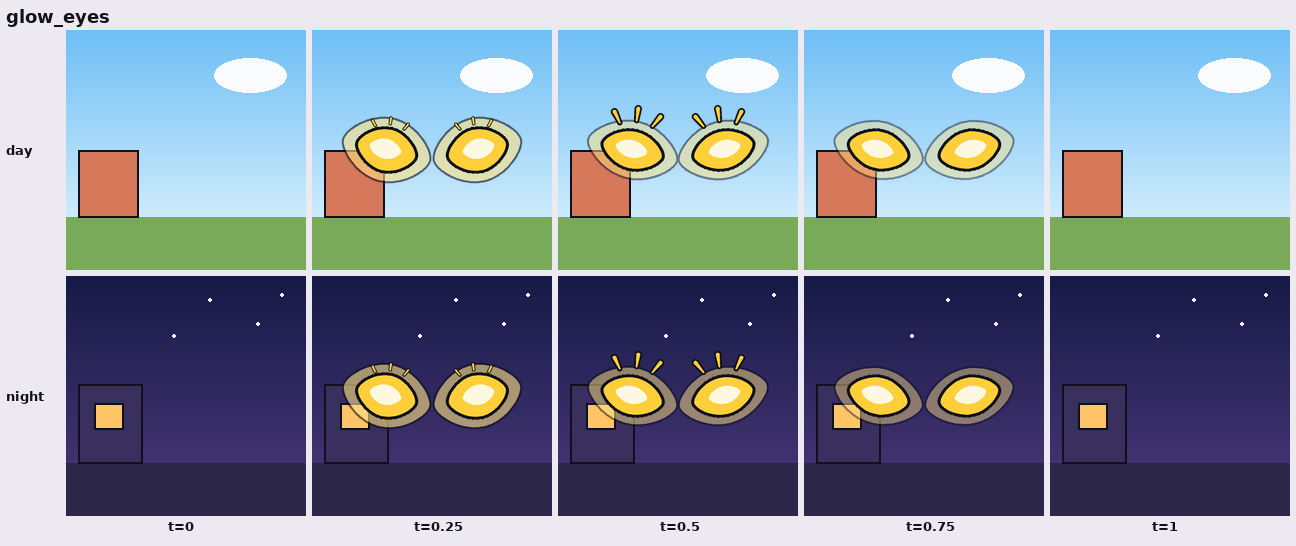
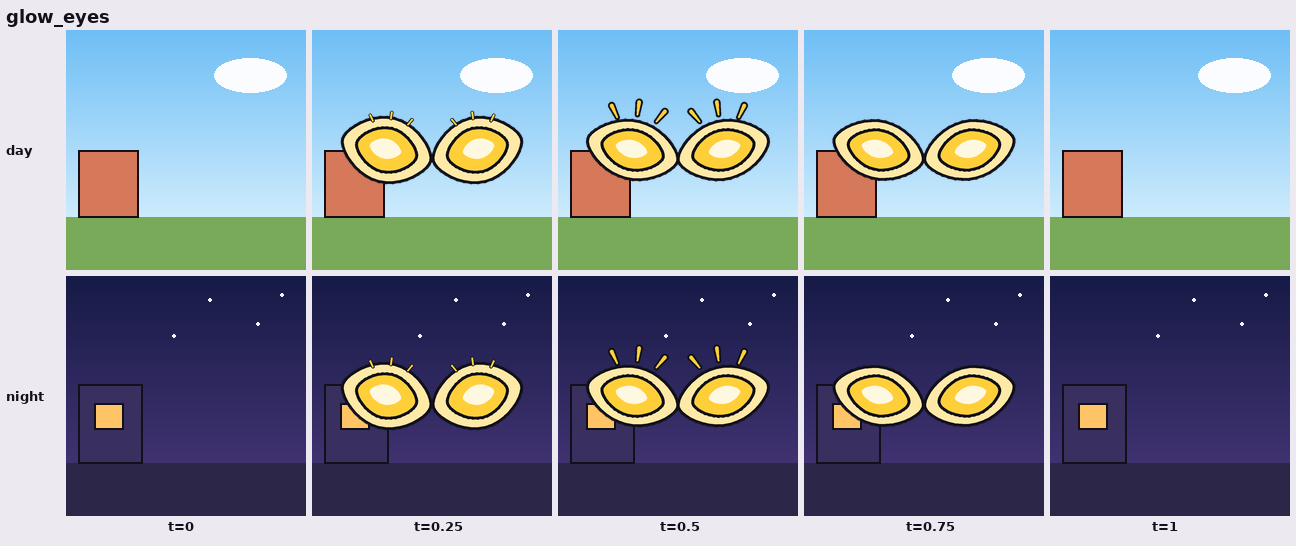
fx: round 4 fixes (flat solid glow halo, lighter purple note), lessons and backlog
Claude-Session: https://claude.ai/code/session_01CUE843qry1EHijK4cNMuJ6

diff --git a/fx/fx.py b/fx/fx.py
@@ -364,15 +364,15 @@ def fx_glow_eyes(t, n, u, e, kw):
     im = new(n)
     # halo: ONE flat outlined almond ring, semi-opaque (cel glow, no blur; RULES 7), plus short outlined rays on the flare
     rings = [('p', almond(cx + s_ * gap, cy, r * 1.5 * flick, r * 0.62 * 1.5 * max(o, 0.35) * flick, -s_ * slant),
-              light(col, 0.35)) for s_ in (-1, 1)]
-    comp(im, group(n, rings, ink_w(e, o, 0.25) * 0.7, alpha=0.6 * glow))
+              light(col, 0.55)) for s_ in (-1, 1)]
+    comp(im, group(n, rings, ink_w(e, o, 0.25), alpha=clamp(glow * 2)))   # solid flat fill, alpha only at the ends
     rp = seg(t, 0.2, 0.62)
     if 0 < rp < 1:
         rays = []
         for s_ in (-1, 1):
             for a_ in (-60, -90, -120):
                 ar = math.radians(a_ - s_ * slant * 0.5); x = cx + s_ * gap
-                r0 = r * (1.0 + 0.25 * in_quad(rp)); r1 = r * (1.05 + 0.55 * out_cubic(rp))
+                r0 = r * (1.2 + 0.3 * in_quad(rp)); r1 = r * (1.25 + 0.6 * out_cubic(rp))
                 rays.append(('s', [(x + math.cos(ar) * r0, cy + math.sin(ar) * r0 * 0.9, r * 0.05),
                                    (x + math.cos(ar) * r1, cy + math.sin(ar) * r1 * 0.9, r * 0.16 * bump(rp))], col))
         comp(im, group(n, rays, e * 0.8))
@@ -569,7 +569,7 @@ def note_shapes(x, y, h, ang, col, double=False):
 
 def fx_music_note(t, n, u, e, kw):
     rng = random.Random(kw.get('seed', 19))
-    cols = kw.get('colors') or [kw.get('color', '#a774ff'), '#ff5fa8']
+    cols = kw.get('colors') or [kw.get('color', '#b58cff'), '#ff5fa8']
     cnt = kw.get('count', 2)
     cx, by = n / 2, n / 2 + u * 0.7                        # notes rise from bottom centre (a mouth / speaker)
     im = new(n)

diff --git a/BACKLOG.md b/BACKLOG.md
@@ -25,8 +25,11 @@ Take the highest-priority open item in **your area**. Tick it (`[x]`) with the c
 - [ ] P3 Run cycle and sit pose, following DRAWING_RULES.
 
 ## fx (`fx/`)
-- [ ] P1 `fx/fx.py` with: explosion, impact_star, dust_puff, speed_lines, sweat_drop, anger_vein, glow_eyes, sparkle, splash, question_mark, exclaim, music_note.
-- [ ] P1 `fx/CATALOG.md` with preview strips.
+- [x] P1 `fx/fx.py` with: explosion, impact_star, dust_puff, speed_lines, sweat_drop, anger_vein, glow_eyes, sparkle, splash, question_mark, exclaim, music_note. (claude/area-fx) After 4 review rounds, 11 of 12 effects pass (every score >= 7). See `fx/RULES.md`.
+- [x] P1 `fx/CATALOG.md` with preview strips (`fx/previews/`), a demo GIF, and automatic checks in `fx/scripts/catalog.py`.
+- [ ] P1 glow_eyes: round 4 scored readability 6 and style 5 because the translucent blurred halo looked muddy. It now uses a solid flat outlined halo with rays, which has not been re-reviewed. Re-review it, and try a version with no halo (rays only) if it still reads as "big eyes" rather than "glow".
+- [ ] P2 fx polish from review round 4: sparkle peaks at 3/12 and should leave no sub-3 px specks; exclaim's tick dashes need a visible outline at night; the splash ring should fade by alpha, not by thinning; the question_mark hook should grow with its dot at 1/12; the double note in music_note should ease in over 2-3 frames; explosion and dust_puff leave pixel debris in their last third.
+- [ ] P2 engine: composite fx with `line=3.2*char_scale` so the fx outline matches the character's outline (see CATALOG.md).
 - [ ] P2 Light shafts and a lens flash.
 
 ## engine (`engine/`)

diff --git a/LESSONS.md b/LESSONS.md
@@ -22,6 +22,9 @@ Each line is a mistake already made once, phrased as an instruction. Add a line 
 - The scale of each pack differs (a Quaternius barrel is 0.2 units). Scale every model to real metres.
 
 ## Process
+- Review animation on a dense sheet (t = 1/12 .. 11/12), never only on a 5-frame strip. Pops at the entry or exit and frozen holds hide between the samples.
+- PIL `GaussianBlur` on straight RGBA drags black in from empty pixels, which gives grey or brown halos. Blur only the alpha channel and keep the RGB solid.
+- Feed each reviewer round the same inputs, and turn every fix into a rule (for example `fx/RULES.md`). Otherwise the next round undoes the last one: alpha fades get swapped for shrinks, then the shrink pops.
 - Render a cheap low-res still after every change, and look at it before rendering full size.
 - Compare side-by-side with a reference frame. Numbers and adjectives lie; pictures don't.
 - When the user corrects something, fix it **and** add a rule so it never happens again.
